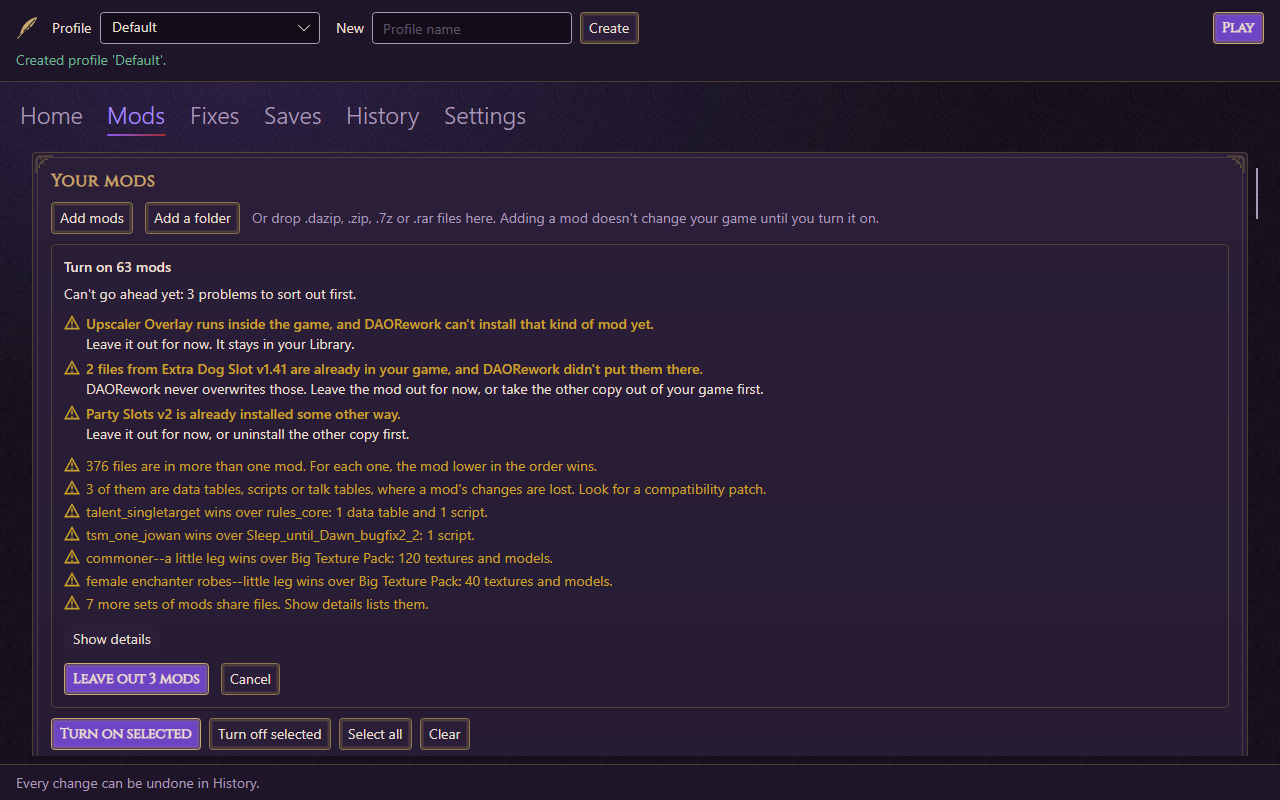
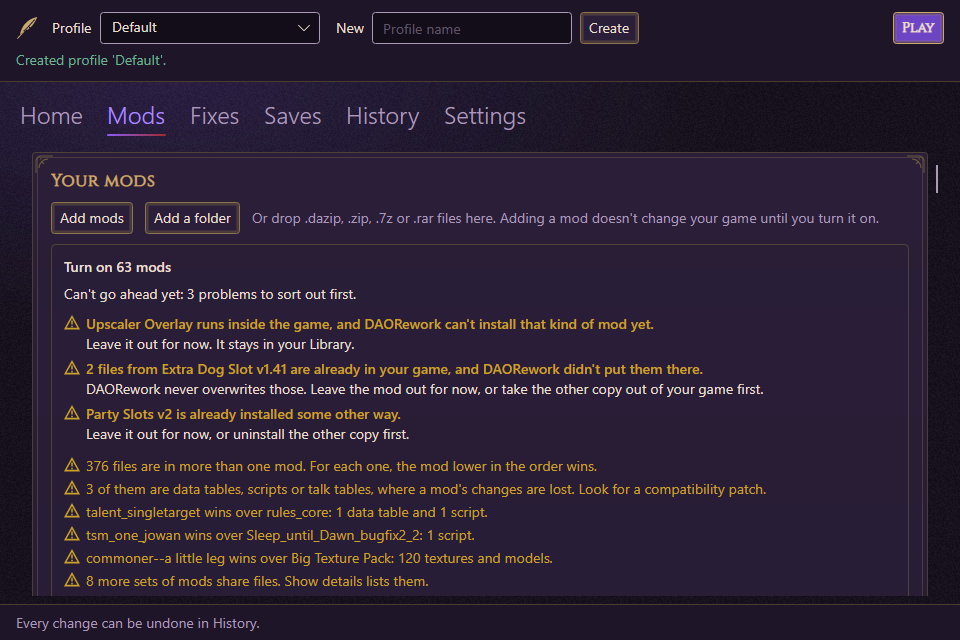
fix(mods): count every cause, and offer Leave out only when it clears the block (P2.6-13)
From the review: the verdict counted capped rows, Leave out could offer a step
that left the plan blocked, the Mac folder rule never saw a path, DXVK's pointer
was lost from the first view, and grouped sentences broke in the singular. The
one-screen test now runs at the window's own size against the visible area,
which took one group fewer to fit.

diff --git a/src/DAORework.Core/Mods/Planning/PlanNotes.cs b/src/DAORework.Core/Mods/Planning/PlanNotes.cs
@@ -28,18 +28,19 @@ public static class PlanNotes
         if (conflicts.UnmanagedShadows.Count > 0)
         {
             var mods = conflicts.UnmanagedShadows.Select(s => s.Managed.ModId);
-            notes.Add($"{ModActivationPlanWarnings.Files(conflicts.UnmanagedShadows.Count)} from {PlanWords.Names(mods, nameOf)} share a name with files in the override folder that DAORework doesn't manage; the game picks one.");
+            notes.Add($"{ModActivationPlanWarnings.Files(conflicts.UnmanagedShadows.Count)} from {PlanWords.Names(mods, nameOf)} {Verb(conflicts.UnmanagedShadows.Count, "shares", "share")} a name with files in the override folder that DAORework doesn't manage; the game picks one.");
         }
 
         if (conflicts.AddInFilesOverridden.Count > 0)
         {
             var mods = conflicts.AddInFilesOverridden.Select(a => a.Override.ModId);
-            notes.Add($"{ModActivationPlanWarnings.Files(conflicts.AddInFilesOverridden.Count)} from {PlanWords.Names(mods, nameOf)} replace files inside add-ins.");
+            notes.Add($"{ModActivationPlanWarnings.Files(conflicts.AddInFilesOverridden.Count)} from {PlanWords.Names(mods, nameOf)} {Verb(conflicts.AddInFilesOverridden.Count, "replaces a file", "replace files")} inside add-ins.");
         }
 
         if (conflicts.ProgramFiles.Count > 0)
         {
-            notes.Add($"{PlanWords.Names(conflicts.ProgramFiles.Select(f => f.ModId), nameOf)} hold programs, which are never installed into the game's folders.");
+            var mods = conflicts.ProgramFiles.Select(f => f.ModId).Distinct(StringComparer.OrdinalIgnoreCase).ToList();
+            notes.Add($"{PlanWords.Names(mods, nameOf)} {Verb(mods.Count, "holds", "hold")} programs, which are never installed into the game's folders.");
         }
 
         if (plan.MissingRecordedFiles.Count > 0)
@@ -57,7 +58,7 @@ public static class PlanNotes
 
         if (plan.InstallOverrideShadows.Count > 0)
         {
-            notes.Add($"{ModActivationPlanWarnings.Files(plan.InstallOverrideShadows.Count)} are also in your game folder's override, which DAORework doesn't manage; the game uses one copy.");
+            notes.Add($"{ModActivationPlanWarnings.Files(plan.InstallOverrideShadows.Count)} {Verb(plan.InstallOverrideShadows.Count, "is", "are")} also in your game folder's override, which DAORework doesn't manage; the game uses one copy.");
         }
 
         if (plan.InstallOverrideProblem is { } unread)
@@ -67,4 +68,6 @@ public static class PlanNotes
 
         return notes;
     }
+
+    private static string Verb(int count, string one, string many) => count == 1 ? one : many;
 }

diff --git a/src/DAORework.Core/Mods/Planning/PlanProblems.cs b/src/DAORework.Core/Mods/Planning/PlanProblems.cs
@@ -15,7 +15,7 @@ public static class PlanProblems
     {
         ArgumentNullException.ThrowIfNull(plan);
         ArgumentNullException.ThrowIfNull(nameOf);
-        var problems = plan.Blockers.GroupBy(b => b.Kind).OrderBy(g => g.Key).SelectMany(g => Describe(g.Key, [.. g], plan, nameOf)).ToList();
+        var problems = All(plan, nameOf);
         if (problems.Count <= MaxShown)
         {
             return problems;
@@ -24,6 +24,16 @@ public static class PlanProblems
         var more = problems.Count - (MaxShown - 1);
         return [.. problems.Take(MaxShown - 1), new PlanProblem(PlanWords.Count(more, "more problem", "more problems"), "Show details lists them.")];
     }
+
+    /// <summary>How many causes there are, including any past the rows shown.</summary>
+    public static int Count(ModActivationPlan plan)
+    {
+        ArgumentNullException.ThrowIfNull(plan);
+        return All(plan, id => id).Count;
+    }
+
+    private static List<PlanProblem> All(ModActivationPlan plan, Func<string, string> nameOf) =>
+        [.. plan.Blockers.GroupBy(b => b.Kind).OrderBy(g => g.Key).SelectMany(g => Describe(g.Key, [.. g], plan, nameOf))];
 
     private static IEnumerable<PlanProblem> Describe(PlanBlockerKind kind, List<PlanBlocker> blockers, ModActivationPlan plan, Func<string, string> nameOf) => kind switch
     {
@@ -53,7 +63,7 @@ public static class PlanProblems
         {
             problems.Add(new PlanProblem(
                 $"{PlanWords.Names(off, nameOf)} {(off.Count == 1 ? "runs" : "run")} inside the game, and DAORework can't install that kind of mod yet.",
-                $"Leave {It(off.Count)} out for now. {(off.Count == 1 ? "It stays" : "They stay")} in your Library."));
+                $"Leave {It(off.Count)} out for now. {(off.Count == 1 ? "It stays" : "They stay")} in your Library.{Instead(blockers)}"));
         }
 
         if (on.Count > 0)
@@ -86,6 +96,9 @@ public static class PlanProblems
             $"{PlanWords.Names(mods, nameOf)} {(mods.Count == 1 ? "is" : "are")} already installed some other way.",
             $"Leave {It(mods.Count)} out for now, or uninstall the other copy first.");
     }
+
+    private static string Instead(List<PlanBlocker> blockers) =>
+        blockers.Select(b => b.Instead).OfType<string>().Distinct(StringComparer.Ordinal).FirstOrDefault() is { } instead ? " " + instead : string.Empty;
 
     private static string It(int count) => count == 1 ? "it" : "them";
 }

diff --git a/tests/DAORework.App.Tests/RealScaleLibrary.cs b/tests/DAORework.App.Tests/RealScaleLibrary.cs
@@ -31,7 +31,7 @@ internal static class RealScaleLibrary
 
     public static IReadOnlyList<LibraryEntry> Entries { get; } = Build();
 
-    /// <summary>Writes every mod into the library, the two blocked add-ins' traces into the game, and returns the UID already registered.</summary>
+    /// <summary>Writes every mod into the library, and what blocks the two add-ins into the game.</summary>
     public static void Seed(AppTestHost host)
     {
         foreach (var entry in Entries)
@@ -70,7 +70,7 @@ internal static class RealScaleLibrary
 
         foreach (var name in new[] { "Haircolors", "colorful hair basic-reworked" })
         {
-            mods.Add(Override(name).Same("t1_stb_bac.tnt", "t1_stb_cld.tnt", "t3_har_bac.tnt", "t3_har_cld.tnt").Text("list.txt").Looks(name[..4], 40).Readme().Build());
+            mods.Add(Override(name).Same("t1_stb_bac.tnt", "t1_stb_cld.tnt", "t3_har_bac.tnt", "t3_har_cld.tnt").Own("list.txt").Looks(name[..4], 40).Readme().Build());
         }
 
         foreach (var name in new[] { "rules_core", "talent_singletarget" })
@@ -89,8 +89,8 @@ internal static class RealScaleLibrary
             mods.Add(Override(name).Looks(name.Replace(" ", string.Empty, StringComparison.Ordinal), 62).Own("zevran_kiss_dm_new.cut").Readme().Build());
         }
 
-        mods.Add(Override("__MACOSX").Text("._.DS_Store", "._hair.dds", "._eye.dds", "._skin.dds", "._lash.dds", "._brow.dds").Build());
-        mods.Add(Override("loose").Text("readme.txt", "for chargenmorphcfg.txt").Looks("loose", 28).Build());
+        mods.Add(Override("__MACOSX").Own("._.DS_Store", "._hair.dds", "._eye.dds", "._skin.dds", "._lash.dds", "._brow.dds").Build());
+        mods.Add(Override("loose").Own("readme.txt", "for chargenmorphcfg.txt").Looks("loose", 28).Build());
         foreach (var name in new[] { "Item Pack", "Dye Kit", "Tactics Slots", BlockedRegistered, BlockedInTheWay })
         {
             mods.Add(AddIn(name));
@@ -143,8 +143,6 @@ internal static class RealScaleLibrary
             _files.AddRange(files.Select(f => File(f, "same in each")));
             return this;
         }
-
-        public ModBuilder Text(params string[] files) => Own(files);
 
         public ModBuilder Readme() => Own("readme.txt");
 

diff --git a/src/DAORework.App/ViewModels/LeftOut.cs b/src/DAORework.App/ViewModels/LeftOut.cs
@@ -8,14 +8,12 @@ namespace DAORework.App.ViewModels;
 /// </summary>
 internal static class LeftOut
 {
-    private const int NamesShown = 3;
-
     /// <returns>The picked mods to leave out; none when that wouldn't clear every blocker or would leave nothing to turn on.</returns>
     public static IReadOnlyList<LibraryModRow> Of(ModActivationPlan plan, IReadOnlyList<LibraryModRow> picked)
     {
         var ids = plan.Blockers.SelectMany(b => b.LeaveOutModIds).ToHashSet(StringComparer.OrdinalIgnoreCase);
         var pickedIds = picked.Select(m => m.Id).ToHashSet(StringComparer.OrdinalIgnoreCase);
-        var clearsAll = plan.Blockers.All(b => b.LeaveOutModIds.Any(pickedIds.Contains));
+        var clearsAll = plan.Blockers.All(b => b.LeaveOutModIds.Count > 0 && b.LeaveOutModIds.All(pickedIds.Contains));
         var mods = picked.Where(m => ids.Contains(m.Id)).ToList();
         return clearsAll && mods.Count < picked.Count ? mods : [];
     }
@@ -23,10 +21,6 @@ internal static class LeftOut
     public static string Label(IReadOnlyList<LibraryModRow> mods) =>
         mods.Count == 1 ? $"Leave out {mods[0].Title}" : $"Leave out {mods.Count} mods";
 
-    public static string Note(IReadOnlyList<LibraryModRow> mods)
-    {
-        var names = mods.Take(NamesShown).Select(m => m.Title);
-        var more = mods.Count > NamesShown ? $" and {mods.Count - NamesShown} more" : string.Empty;
-        return $"Left out: {string.Join(", ", names)}{more}. {(mods.Count == 1 ? "It stays" : "They stay")} in your Library, off.";
-    }
+    public static string Note(IReadOnlyList<LibraryModRow> mods) =>
+        $"Left out: {PlanWords.Names(mods.Select(m => m.Title), title => title)}. {(mods.Count == 1 ? "It stays" : "They stay")} in your Library, off.";
 }

diff --git a/src/DAORework.Core/Mods/Planning/PlanWords.cs b/src/DAORework.Core/Mods/Planning/PlanWords.cs
@@ -3,25 +3,27 @@ using System.Globalization;
 namespace DAORework.Core.Mods.Planning;
 
 /// <summary>How the window's plan sentences write a list and a count (VOICE.md: as a person writes them).</summary>
-internal static class PlanWords
+public static class PlanWords
 {
-    private const int NamesShown = 3;
+    /// <summary>How many names a sentence gives before it counts the rest.</summary>
+    public const int NamesShown = 3;
 
     /// <summary>"a", "a and b", "a, b and c".</summary>
-    public static string List(IReadOnlyList<string> parts) => parts.Count switch
+    public static string List(IReadOnlyList<string> parts)
     {
-        0 => string.Empty,
-        1 => parts[0],
-        _ => $"{string.Join(", ", parts.Take(parts.Count - 1))} and {parts[^1]}",
-    };
+        ArgumentNullException.ThrowIfNull(parts);
+        return parts.Count < 2 ? string.Concat(parts) : $"{string.Join(", ", parts.Take(parts.Count - 1))} and {parts[^1]}";
+    }
 
     /// <summary>The mods by name, the first three of a longer list, then how many more.</summary>
     public static string Names(IEnumerable<string> modIds, Func<string, string> nameOf)
     {
+        ArgumentNullException.ThrowIfNull(modIds);
+        ArgumentNullException.ThrowIfNull(nameOf);
         var names = modIds.Distinct(StringComparer.OrdinalIgnoreCase).Select(nameOf).ToList();
         return names.Count <= NamesShown
             ? List(names)
-            : $"{string.Join(", ", names.Take(NamesShown))} and {Count(names.Count - NamesShown, "more", "more")}";
+            : $"{string.Join(", ", names.Take(NamesShown))} and {names.Count - NamesShown} more";
     }
 
     public static string Count(int count, string one, string many) =>

diff --git a/tests/DAORework.Core.Tests/Mods/PlanNotesTests.cs b/tests/DAORework.Core.Tests/Mods/PlanNotesTests.cs
@@ -49,14 +49,14 @@ public sealed class PlanNotesTests
     }
 
     [Fact]
-    public void For_ManySetsOfMods_ShowsFourAndCountsTheRest()
+    public void For_ManySetsOfMods_ShowsThreeAndCountsTheRest()
     {
         var mods = Enumerable.Range(0, 10).SelectMany(i => new[] { Mods.Override($"low{i}", $"f{i}.dds#1"), Mods.Override($"high{i}", $"f{i}.dds#2") }).ToArray();
 
         var notes = Notes(mods);
 
-        Assert.Equal(6, notes.Count);
-        Assert.Equal("6 more sets of mods share files. Show details lists them.", notes[^1]);
+        Assert.Equal(5, notes.Count);
+        Assert.Equal("7 more sets of mods share files. Show details lists them.", notes[^1]);
     }
 
     [Fact]
@@ -65,6 +65,17 @@ public sealed class PlanNotesTests
         var mods = Enumerable.Range(0, 8).Select(i => Mods.Override($"m{i}", Textures(10, i.ToString(System.Globalization.CultureInfo.InvariantCulture)))).ToArray();
 
         Assert.Equal("m7 wins over m0, m1, m2 and 4 more: 10 textures and models.", Notes(mods)[1]);
+    }
+
+    [Fact]
+    public void For_OneSharedFileAmongManyWarnings_WritesItInTheSingular()
+    {
+        var plan = ModActivationPlanner.Plan(new PlanInput(DeploymentRecord.Empty, [Mods.Override("a", "x.dds#1"), Mods.Override("b", "x.dds#2")], [], new Dictionary<string, string>(), [])).Value with
+        {
+            CombineProblems = ["one", "two", "three", "four", "five", "six"],
+        };
+
+        Assert.Equal("1 file is in more than one mod. The mod lower in the order wins.", PlanNotes.For(plan, id => id)[0]);
     }
 
     private static string[] Textures(int count, string content) => [.. Enumerable.Range(0, count).Select(i => $"t{i}.dds#{content}")];

diff --git a/src/DAORework.App/ViewModels/ModAdoptionViewModel.cs b/src/DAORework.App/ViewModels/ModAdoptionViewModel.cs
@@ -17,8 +17,6 @@ namespace DAORework.App.ViewModels;
 /// </summary>
 public sealed partial class ModAdoptionViewModel : PageViewModel
 {
-    private const int MaxNamesInMessage = 3;
-
     private readonly GetProfile _getProfile;
     private readonly PlanAdoption _plan;
     private readonly ApplyModPlan _apply;
@@ -89,7 +87,7 @@ public sealed partial class ModAdoptionViewModel : PageViewModel
                 }
 
                 var titles = candidates.Select(m => m.Title).ToList();
-                _pending = (documents, plan, titles.Count <= MaxNamesInMessage ? string.Join(", ", titles) : $"{titles.Count} mods");
+                _pending = (documents, plan, PlanWords.Names(titles, title => title));
                 CanApply = !plan.IsBlocked && !plan.IsEmpty;
                 if (AfterPlanAsync is not null)
                 {
@@ -127,7 +125,7 @@ public sealed partial class ModAdoptionViewModel : PageViewModel
                     return;
                 }
 
-                ReportSuccess($"Now managing {pending.Name}. It is in the Library, and you can undo this in History.");
+                ReportSuccess($"Now managing {pending.Name}. You can undo this in History.");
             },
             cancellationToken);
 

diff --git a/src/DAORework.Core/Mods/Conflicts/ConflictScanner.cs b/src/DAORework.Core/Mods/Conflicts/ConflictScanner.cs
@@ -76,7 +76,7 @@ public static class ConflictScanner
     {
         var unmanaged = unmanagedOverridePaths.ToLookup(p => p[(p.LastIndexOfAny(['/', '\\']) + 1)..], _names);
         return deploy
-            .Where(f => f.IsOverride && unmanaged.Contains(f.FileName) && !NonModFiles.Is(f.FileName))
+            .Where(f => f.IsOverride && unmanaged.Contains(f.FileName) && !NonModFiles.Is(f.Source.RelativePath))
             .Select(f => new UnmanagedShadow(f, unmanaged[f.FileName].ToList()))
             .ToList();
     }
@@ -88,7 +88,7 @@ public static class ConflictScanner
             .Where(f => !f.IsOverride && f.TargetPath.StartsWith(addInPrefix, StringComparison.OrdinalIgnoreCase))
             .ToLookup(f => f.FileName, _names);
         return deploy
-            .Where(f => f.IsOverride && addInFiles.Contains(f.FileName) && !NonModFiles.Is(f.FileName))
+            .Where(f => f.IsOverride && addInFiles.Contains(f.FileName) && !NonModFiles.Is(f.Source.RelativePath))
             .SelectMany(f => addInFiles[f.FileName].Select(a => new AddInFileOverridden(f, a)))
             .ToList();
     }

diff --git a/src/DAORework.Core/Mods/Planning/ModActivationPlanner.cs b/src/DAORework.Core/Mods/Planning/ModActivationPlanner.cs
@@ -75,9 +75,10 @@ public static class ModActivationPlanner
     /// <summary>Says what to do when there is something to do: a copy added as an override mod is still on, or the mod is DXVK.</summary>
     private static PlanBlocker GameProgramBlocker(LibraryMod mod, DeploymentRecord current)
     {
+        var dxvk = mod.Files.Any(f => f.RelativePath.EndsWith("d3d9.dll", StringComparison.OrdinalIgnoreCase));
         var next = current.ActiveModIds.Contains(mod.Id, _paths)
             ? $" Turn {mod.Name} off first: it was added before DAORework knew this, and its files do nothing where they are."
-            : mod.Files.Any(f => f.RelativePath.EndsWith("d3d9.dll", StringComparison.OrdinalIgnoreCase))
+            : dxvk
                 ? " For DXVK, use: fixes apply dxvk <release>."
                 : string.Empty;
         return new PlanBlocker(
@@ -87,6 +88,7 @@ public static class ModActivationPlanner
         {
             ModIds = [mod.Id],
             LeaveOutModIds = [mod.Id],
+            Instead = dxvk ? "For DXVK, use the Fixes page." : null,
         };
     }
 

diff --git a/tests/DAORework.Core.Tests/Mods/PlanProblemsTests.cs b/tests/DAORework.Core.Tests/Mods/PlanProblemsTests.cs
@@ -77,6 +77,22 @@ public sealed class PlanProblemsTests
     }
 
     [Fact]
+    public void For_DxvkInAZip_SaysWhereDxvkIs()
+    {
+        var dxvk = new LibraryMod("dxvk", "Dxvk", ModKind.GameProgram, [new LibraryModFile("bin_ship/d3d9.dll", 1, "a") { Kind = ModFileKind.Program }]);
+
+        Assert.EndsWith("For DXVK, use the Fixes page.", Assert.Single(PlanProblems.For(Plan([dxvk]), Name)).WhatToDo, StringComparison.Ordinal);
+    }
+
+    [Fact]
+    public void Summary_MoreCausesThanRows_CountsEveryCause()
+    {
+        var pairs = Enumerable.Range(0, 8).SelectMany(i => new[] { AddIn($"a{i}", $"shared{i}"), AddIn($"b{i}", $"shared{i}") }).ToList();
+
+        Assert.Equal("Can't go ahead yet: 8 problems to sort out first.", ModActivationPlanSummary.Line(Plan(pairs), Name));
+    }
+
+    [Fact]
     public void Summary_Blocked_CountsTheProblems()
     {
         Assert.Equal("Can't go ahead yet: 1 problem to sort out first.", ModActivationPlanSummary.Line(Plan([Program("luma")]), Name));

diff --git a/tests/DAORework.App.Tests/RealScalePreviewTests.cs b/tests/DAORework.App.Tests/RealScalePreviewTests.cs
@@ -1,6 +1,7 @@
 using Avalonia.Controls;
 using Avalonia.Headless.XUnit;
 using Avalonia.LogicalTree;
+using Avalonia.VisualTree;
 using DAORework.App.Views;
 using Xunit;
 
@@ -51,8 +52,9 @@ public sealed class RealScalePreviewTests : IDisposable
         Assert.False(activation.ApplyCommand.CanExecute(null));
 
         ModsTabScenario.Show<LibraryPanel>(window);
-        var border = window.GetLogicalDescendants().OfType<LibraryPanel>().Distinct().Single().GetLogicalDescendants().OfType<Border>().First(b => b.Name == "PlanPreview");
-        Assert.InRange(border.Bounds.Height, 1, window.Height);
+        var panel = window.GetLogicalDescendants().OfType<LibraryPanel>().Distinct().Single();
+        var border = panel.GetLogicalDescendants().OfType<Border>().First(b => b.Name == "PlanPreview");
+        Assert.InRange(border.Bounds.Height, 1, panel.FindAncestorOfType<ScrollViewer>()!.Viewport.Height);
         Screenshots.Save(window, "real-scale-01-blocked-preview");
     }
 

diff --git a/src/DAORework.Core/Mods/Planning/SharedFileNotes.cs b/src/DAORework.Core/Mods/Planning/SharedFileNotes.cs
@@ -9,7 +9,7 @@ namespace DAORework.Core.Mods.Planning;
 /// </summary>
 internal static class SharedFileNotes
 {
-    private const int GroupsShown = 4;
+    private const int GroupsShown = 3;
 
     private static readonly HashSet<string> _behaviour = new(StringComparer.OrdinalIgnoreCase) { ".gda", ".ncs", ".tlk" };
 
@@ -22,7 +22,10 @@ internal static class SharedFileNotes
             return [];
         }
 
-        var notes = new List<string> { $"{ModActivationPlanWarnings.Files(conflicts.Count)} are in more than one mod. For each one, the mod lower in the order wins." };
+        var notes = new List<string>
+        {
+            conflicts.Count == 1 ? "1 file is in more than one mod. The mod lower in the order wins." : $"{ModActivationPlanWarnings.Files(conflicts.Count)} are in more than one mod. For each one, the mod lower in the order wins.",
+        };
         var behaviour = conflicts.Count(IsBehaviour);
         if (behaviour > 0)
         {
